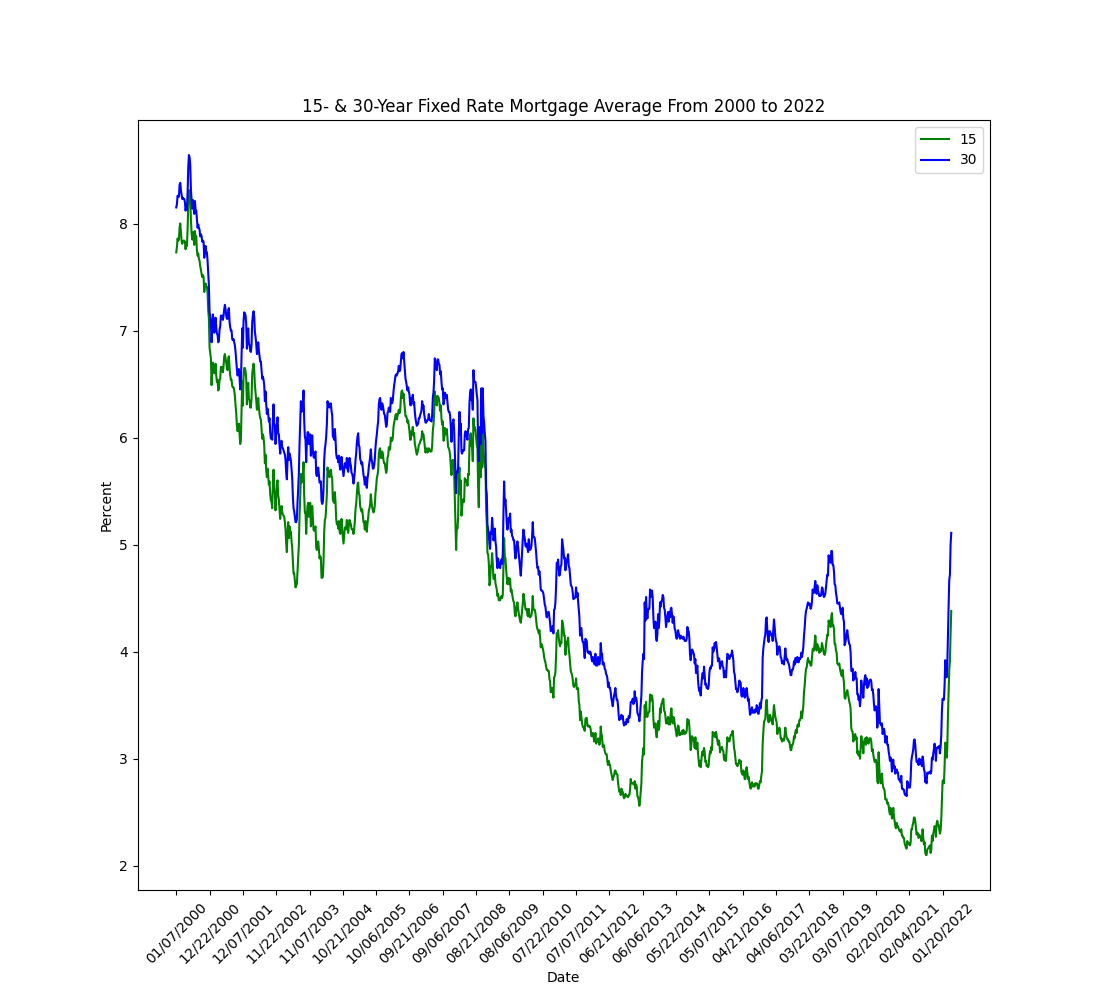
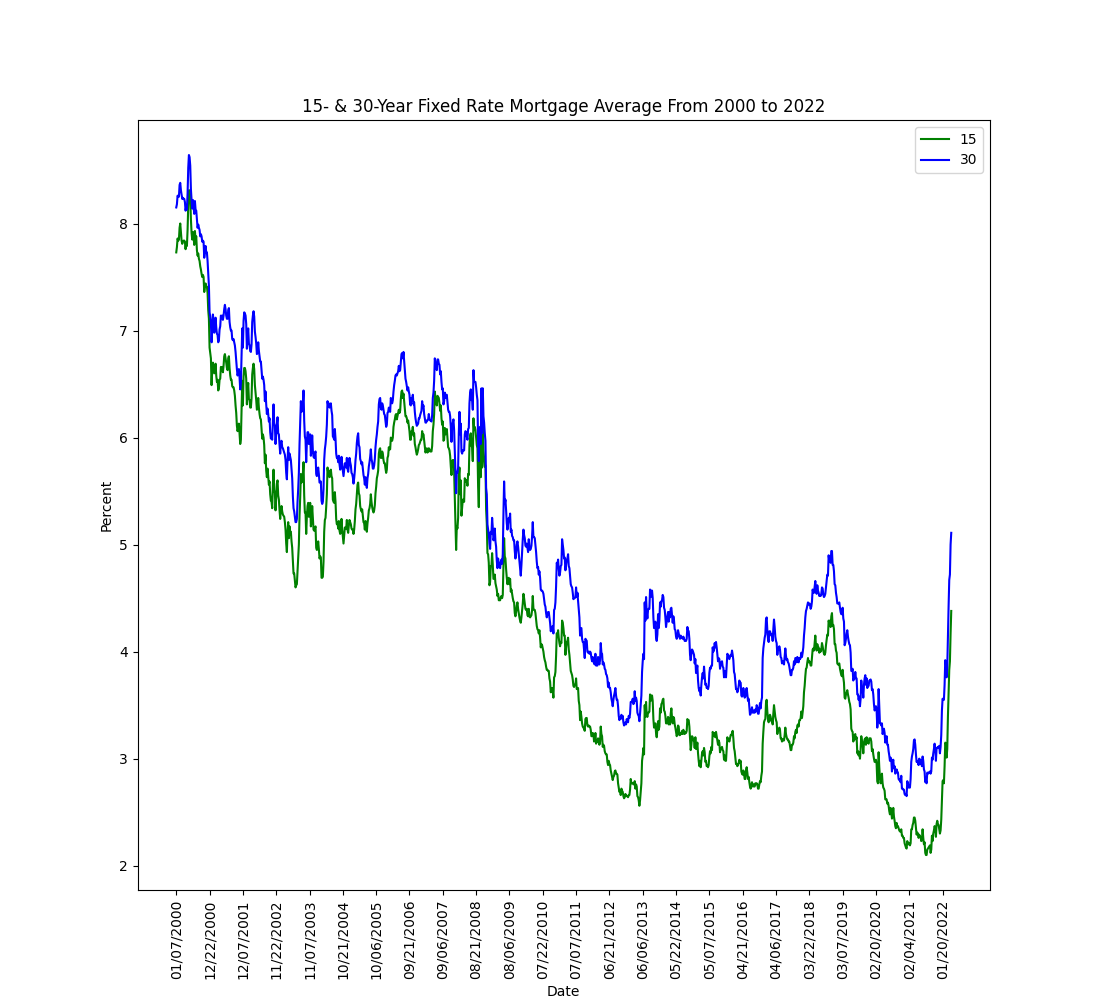
Rotated dates 90 degrees

Changed region(s): [[0.1236, 0.899, 0.8964, 1.0]]

diff --git a/Main.py b/Main.py
@@ -214,7 +214,7 @@ def mortgageInterestRates():
 
     ax.set_xticks(ticks_to_use_indices)
     ax.set_xticklabels(labels)
-    plt.xticks(rotation=45)
+    plt.xticks(rotation=90)
 
     # Plot the mortgages
     plt.plot(dates_15, spy15['MORTGAGE15US'][436: ], 'g-', label="15")
